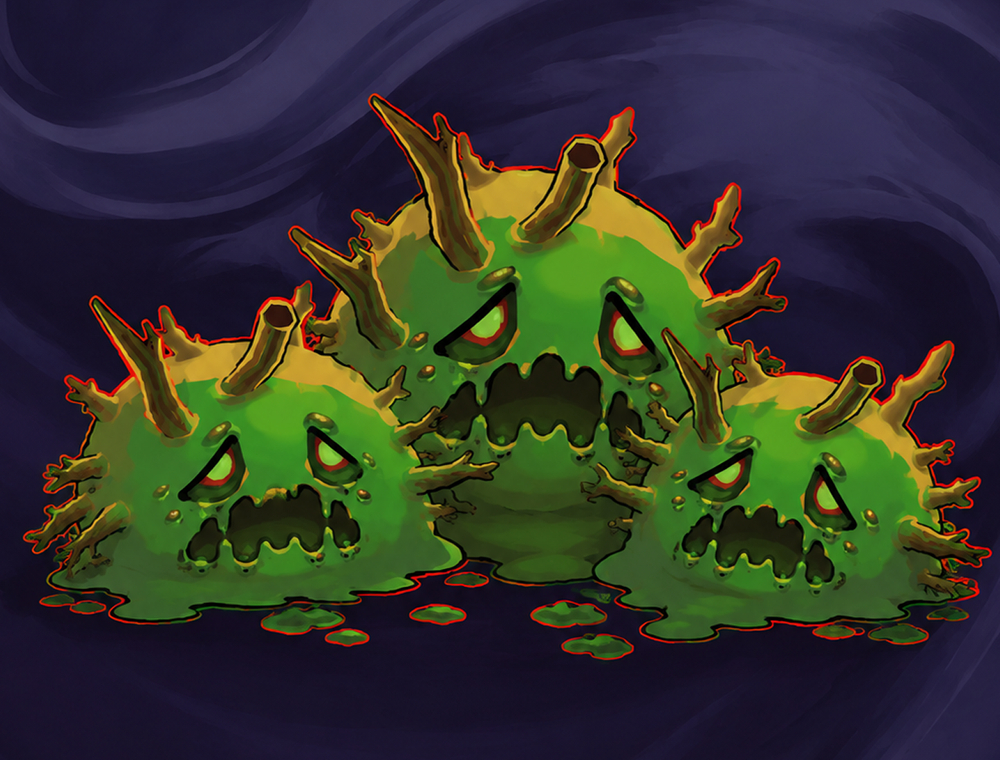
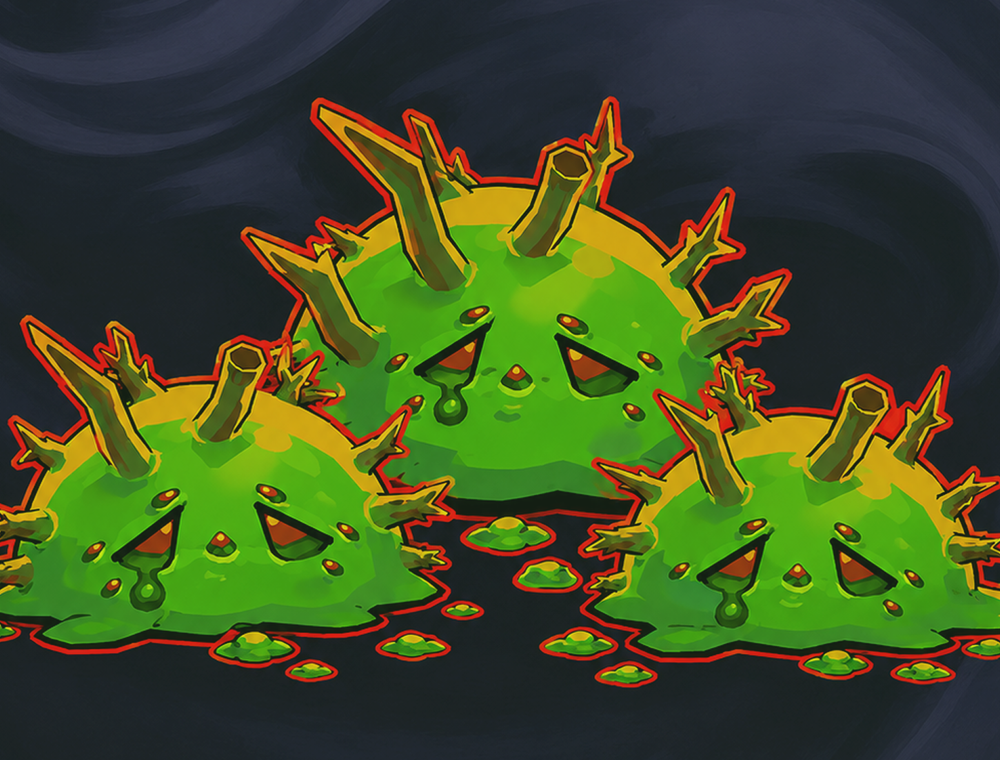
feat(card): 调整卡牌探寻(Dowsing)任务房间数要求
- [Add] 新增 DowsingRoomsPatch 补丁，将探寻(Dowsing)的任务目标从进入 5 个 ? 房间调整为 4 个

- [Docs] 更新 docs/balance-changes.md 任务状态、README.md 卡牌调整列表与 CHANGELOG.md

diff --git a/Sts2BalanceModCode/Patches/Cards/DowsingRoomsPatch.cs b/Sts2BalanceModCode/Patches/Cards/DowsingRoomsPatch.cs
@@ -1,0 +1,77 @@
+using System.Collections.Generic;
+using System.Threading.Tasks;
+using HarmonyLib;
+using MegaCrit.Sts2.Core.Commands;
+using MegaCrit.Sts2.Core.Entities.Cards;
+using MegaCrit.Sts2.Core.Localization.DynamicVars;
+using MegaCrit.Sts2.Core.Map;
+using MegaCrit.Sts2.Core.Models.Cards;
+using MegaCrit.Sts2.Core.Rooms;
+
+namespace Sts2BalanceMod.Sts2BalanceModCode.Patches.Cards;
+
+/// <summary>
+/// CARD-01 — 探寻 (Dowsing)
+/// - 任务目标从进入 5 个 ? 房间调整为进入 4 个 ? 房间。
+/// </summary>
+public static class DowsingRoomsPatch
+{
+    private const int TargetMaxRooms = 4;
+
+    [HarmonyPatch(typeof(Dowsing), "get_CanonicalVars")]
+    public static class CanonicalVarsPatch
+    {
+        [HarmonyPrefix]
+        public static bool Prefix(ref IEnumerable<DynamicVar> __result)
+        {
+            __result = new DynamicVar[]
+            {
+                new DynamicVar("Rooms", TargetMaxRooms)
+            };
+            return false;
+        }
+    }
+
+    [HarmonyPatch(typeof(Dowsing), nameof(Dowsing.RoomsEntered), MethodType.Setter)]
+    public static class RoomsEnteredSetterPatch
+    {
+        [HarmonyPrefix]
+        public static bool Prefix(Dowsing __instance, int value)
+        {
+            __instance.AssertMutable();
+            Traverse.Create(__instance).Field("_roomsEntered").SetValue(value);
+            __instance.DynamicVars["Rooms"].BaseValue = TargetMaxRooms - value;
+            return false;
+        }
+    }
+
+    [HarmonyPatch(typeof(Dowsing), nameof(Dowsing.AfterRoomEntered))]
+    public static class AfterRoomEnteredPatch
+    {
+        [HarmonyPrefix]
+        public static bool Prefix(Dowsing __instance, AbstractRoom room, ref Task __result)
+        {
+            __result = AfterRoomEntered(__instance, room);
+            return false;
+        }
+
+        private static async Task AfterRoomEntered(Dowsing card, AbstractRoom room)
+        {
+            CardPile? pile = card.Pile;
+            if (pile == null || pile.Type != PileType.Deck || card.Owner.RunState.CurrentRoomCount > 1)
+            {
+                return;
+            }
+            MapPoint? currentMapPoint = card.Owner.RunState.CurrentMapPoint;
+            if (currentMapPoint != null && currentMapPoint.PointType == MapPointType.Unknown)
+            {
+                card.RoomsEntered++;
+                if (card.RoomsEntered >= TargetMaxRooms)
+                {
+                    PlayerCmd.CompleteQuest(card);
+                    await CardCmd.TransformTo<Abundance>(card);
+                }
+            }
+        }
+    }
+}

diff --git a/docs/balance-changes.md b/docs/balance-changes.md
@@ -9,28 +9,25 @@
 
 ### 卡牌
 
-- [x] **CARD-01** — 放血：v1.0.9 改为蓝卡，我们**改回白卡**
-- [x] **CARD-02** — 创世之柱：v1.0.9 削弱为第一次生成卡生成 5/8 防御，我们改为每生成一张卡牌都生成 3/4 防御
-- [x] **CARD-03** — 残酷：v1.0.9 为平衡主宰升金色，把这个卡下放了，但是效果平平，我们替换为 **进化**
-  - [x] **CARD-04** — 进化：每当你抽到一张状态牌抽 1/2 张牌
+- [x] **CARD-01** — Dowsing - Quest - 0 cost - "After entering 5 more ? rooms, transform this into Abundance." 改为 4 个问号房间
 
-<!-- - [ ] **CARD-04** — -->
+
+<!-- - [ ] **CARD-01** — -->
 
 ---
 
 ### 美术
 
-- [ ] **ART-04** — 猛撞 (Ram) 缺少卡牌立绘（卡图）
+- [x] **ART-04** — 猛撞 (Ram) 缺少卡牌立绘（卡图）
 
 ### 遗物
 
-- [x] **RELIC-01** — 诅咒钥匙：只在单人出现，增加跳过宝箱的选项
+
+### BOSS
 
 ---
 
 ## 现有的问题以及无法解决的问题
-
-### BOSS
 
 
 ### BUG 列表

diff --git a/CHANGELOG.md b/CHANGELOG.md
@@ -6,6 +6,17 @@
 
 已完成的所有改动见 [README.md](../README.md#调整内容)；未完成的待办项见 [docs/balance-changes.md](docs/balance-changes.md)。
 
+# v0.1.1
+
+### Added
+
+- UI/UX：添加「猛撞」（Ram）卡牌立绘（卡图）
+- UI/UX：完善「进化」（Evolve）卡牌立绘（卡图）
+
+### Changed
+
+- 卡牌：探寻（Dowsing）任务要求从进入 5 个 ? 房间调整为进入 4 个 ? 房间（CARD-01）
+
 # v0.1.0
 
 ### Added
@@ -19,6 +30,7 @@
 
 ### Changed
 
+- 卡牌：探寻（Dowsing）任务要求从进入 5 个 ? 房间调整为进入 4 个 ? 房间（CARD-01）
 - 遗物：诅咒钥匙（CurseKey）跳过宝箱功能重构 + 诅咒时机调整（RELIC-01）
   - 移除独立跳过按钮，复用 ProceedButton，开箱前显示”跳过宝箱”+ 图标，点击后直接离开；开箱后恢复原生行为。
   - 诅咒改为选完遗物后生成（`UpdateText(ProceedLoc)` 时），而非开箱瞬间。

diff --git a/README.md b/README.md
@@ -91,6 +91,7 @@ Release 构建产物位于 `dist/Sts2BalanceMod/`（dll + json + pck），打包
 | **放血** | 战士 | 技能 | 蓝卡（罕见）（v1.0.9 修改） | 稀有度改回**白卡（普通）** |
 | **创世之柱** | 无色 | 能力 | 每回合第一次生成卡牌时获得 5/8 点格挡 | 改为每生成一张卡牌均获得 **3/4 点格挡**（取消每回合首次限制） |
 | **残酷** | 战士 | 能力 | 升级后原版数值，下放为战士卡牌 | 从战士卡池中**完全移除**（由“进化”卡牌替代） |
+| **探寻** | 无色 | 任务 | 进入 5 个 ? 房间后转化为「丰饶」 | 调整为进入 **4 个 ? 房间**后转化为「丰饶」 |
 
 
 ### 一代卡牌回归
